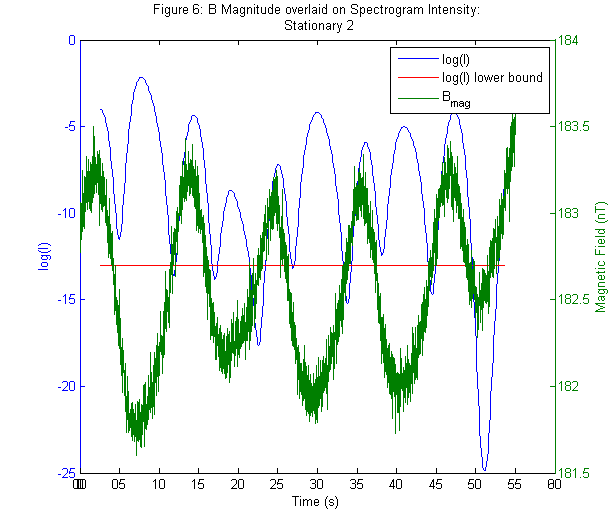
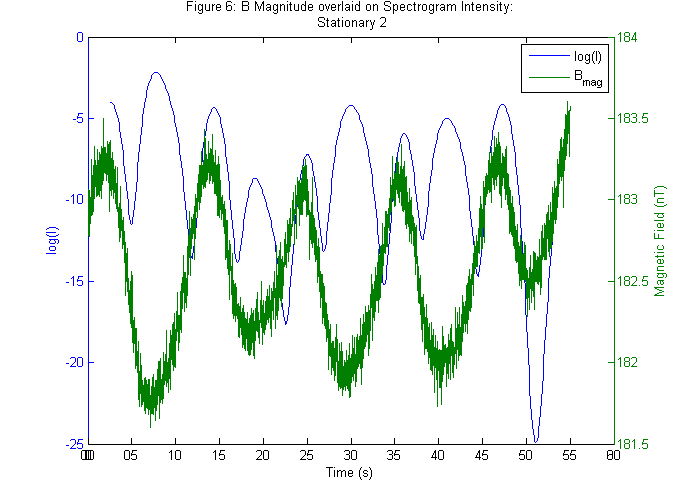
up

diff --git a/FinalProject_Analysis.m b/FinalProject_Analysis.m
@@ -468,10 +468,9 @@ clear; clc;
     %datetick(AX1(1),'x','SS');
     datetick(AX1(2),'x','SS');
     hold on;
-    line(T1+(ti_1(1)/(1000000*3600*24)),P1_l,'parent',AX1(1),'color','r');
     xlabel('Time (s)');
     title(sprintf('Figure 6: B Magnitude overlaid on Spectrogram Intensity:\n Stationary 1'));
-    legend('log(I)','log(I) lower bound','B_{mag}');
+    legend('log(I)','B_{mag}');
     hold off;
 
     % stat 2
@@ -482,10 +481,9 @@ clear; clc;
     %datetick(AX2(1),'x','SS');
     datetick(AX2(2),'x','SS');
     hold on;
-    line(T2+(ti_2(1)/(1000000*3600*24)),P2_l,'parent',AX2(1),'color','r');
     xlabel('Time (s)');
     title(sprintf('Figure 6: B Magnitude overlaid on Spectrogram Intensity:\n Stationary 2'));
-    legend('log(I)','log(I) lower bound','B_{mag}');
+    legend('log(I)','B_{mag}');
     hold off;
     
     % stat 3
@@ -496,10 +494,9 @@ clear; clc;
     %datetick(AX3(1),'x','SS');
     datetick(AX3(2),'x','SS');
     hold on;
-    line(T3+(ti_3(1)/(1000000*3600*24)),P3_l,'parent',AX3(1),'color','r');
     xlabel('Time (s)');
     title(sprintf('Figure 6: B Magnitude overlaid on Spectrogram Intensity:\n Stationary 3'));
-    legend('log(I)','log(I) lower bound','B_{mag}');
+    legend('log(I)','B_{mag}');
     hold off;
     
     % stat 4
@@ -510,10 +507,9 @@ clear; clc;
     %datetick(AX4(1),'x','SS');
     datetick(AX4(2),'x','SS');
     hold on;
-    line(T4+(ti_4(1)/(1000000*3600*24)),P4_l,'parent',AX4(1),'color','r');
     xlabel('Time (s)');
     title(sprintf('Figure 6: B Magnitude overlaid on Spectrogram Intensity:\n Stationary 4'));
-    legend('log(I)','log(I) lower bound','B_{mag}');
+    legend('log(I)','B_{mag}');
     hold off;
     
     % stat 5
@@ -524,10 +520,9 @@ clear; clc;
     %datetick(AX5(1),'x','SS');
     datetick(AX5(2),'x','SS');
     hold on;
-    line(T5+(ti_5(1)/(1000000*3600*24)),P5_l,'parent',AX5(1),'color','r');
     xlabel('Time (s)');
     title(sprintf('Figure 6: B Magnitude overlaid on Spectrogram Intensity:\n Stationary 5'));
-    legend('log(I)','log(I) lower bound','B_{mag}');
+    legend('log(I)','B_{mag}');
     hold off;
     
 % Figure D: Spectrogram of entire dataset
